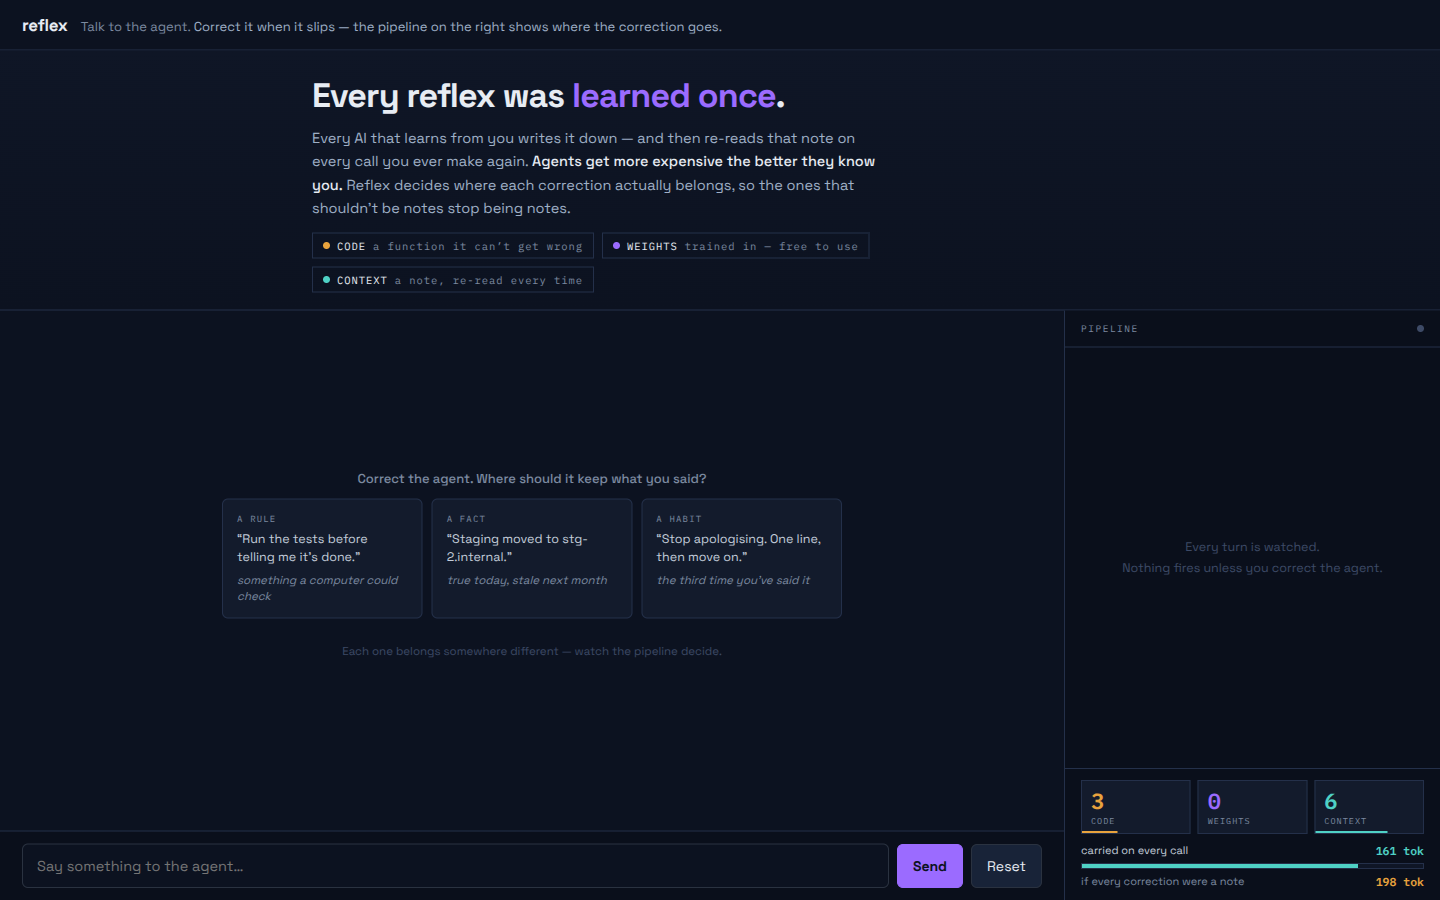
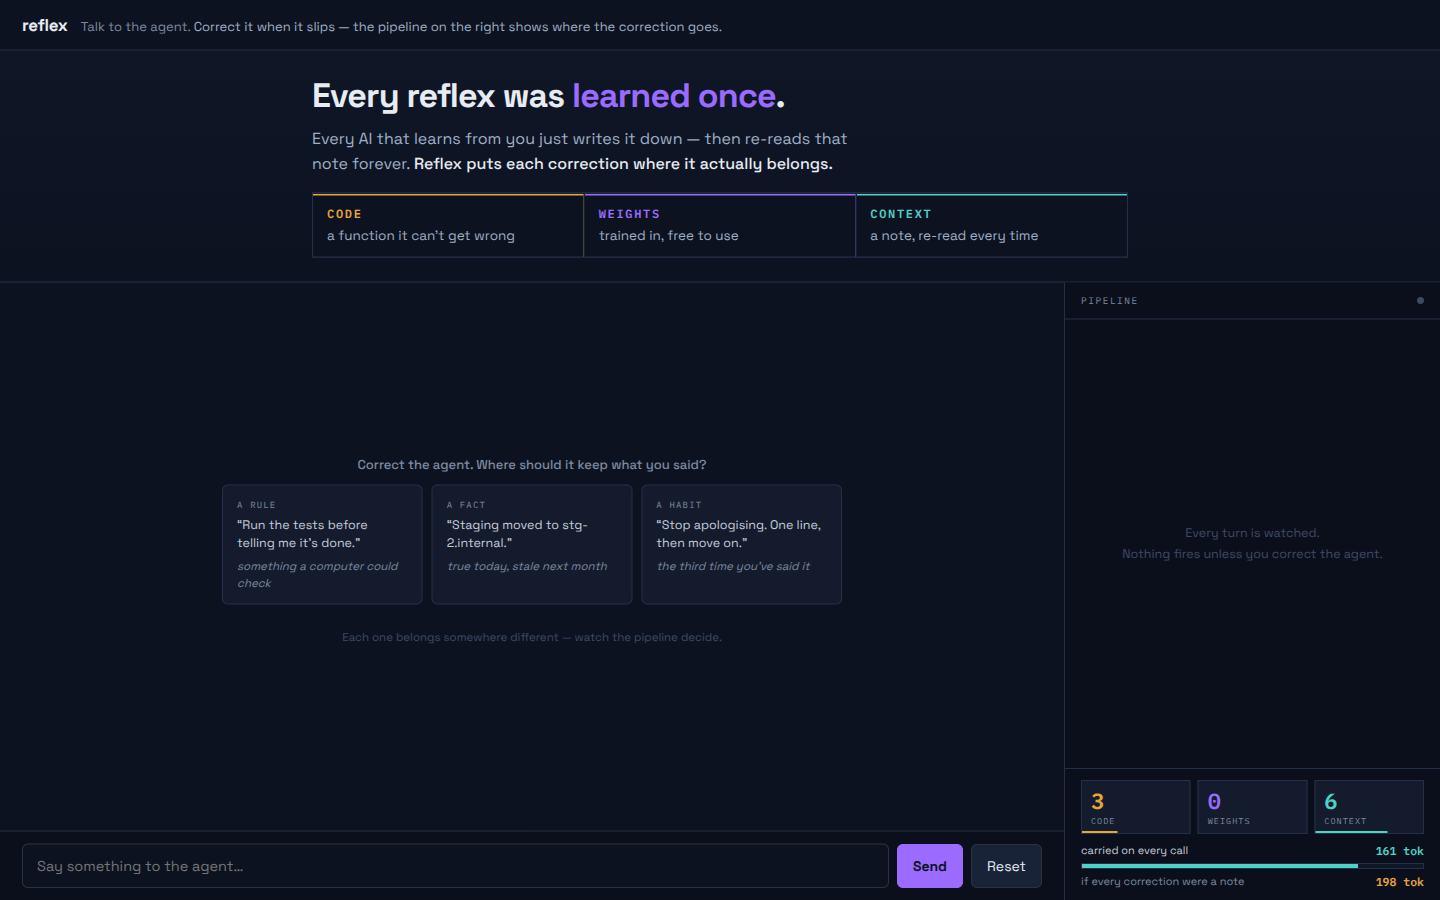
ui: cut the hero to two sentences, make the lanes readable
Three long sentences and small mono chips. Now two sentences, and the three
lanes read as one row - coloured top edges, names and descriptions at a size
that survives being scaled down in a README.

Claude-Session: https://claude.ai/code/session_01Y1snW81SVibszyM8kFBGsg

diff --git a/ui/index.html b/ui/index.html
@@ -31,14 +31,18 @@ header{padding:14px 22px;border-bottom:1px solid var(--border);
 .tag{font-size:clamp(24px,3.4vw,34px);font-weight:700;letter-spacing:-.025em;
   line-height:1.1;text-wrap:balance;margin:0}
 .tag em{font-style:normal;color:var(--weights)}
-.lede{font-size:14.5px;line-height:1.6;color:#9fb0c6;max-width:62ch;margin:0}
+.lede{font-size:16px;line-height:1.55;color:#9fb0c6;max-width:56ch;margin:0}
 .lede b{color:var(--text);font-weight:500}
-.three{display:flex;gap:8px;flex-wrap:wrap}
-.chip{font-family:var(--fm);font-size:10.5px;letter-spacing:.09em;padding:5px 10px;
-  border:1px solid var(--border);display:flex;gap:7px;align-items:center}
-.chip i{width:7px;height:7px;border-radius:50%;font-style:normal}
-.chip.c i{background:var(--code)}.chip.w i{background:var(--weights)}.chip.x i{background:var(--context)}
-.chip span{color:var(--muted)}
+.three{display:grid;grid-template-columns:repeat(3,minmax(0,1fr));gap:1px;
+  background:var(--border);border:1px solid var(--border);margin-top:3px}
+.chip{background:var(--bg);padding:12px 14px;display:flex;flex-direction:column;gap:5px}
+.chip b{font-family:var(--fm);font-size:12px;font-weight:600;letter-spacing:.14em}
+.chip span{font-size:13.5px;line-height:1.35;color:#9fb0c6}
+.chip.c b{color:var(--code)}.chip.w b{color:var(--weights)}.chip.x b{color:var(--context)}
+.chip.c{box-shadow:inset 0 2px 0 var(--code)}
+.chip.w{box-shadow:inset 0 2px 0 var(--weights)}
+.chip.x{box-shadow:inset 0 2px 0 var(--context)}
+@media(max-width:700px){.three{grid-template-columns:1fr}}
 .brand{font-size:17px;font-weight:700;letter-spacing:-.01em}
 .sub{font-size:13px;color:var(--muted)}
 .sub b{color:#9fb0c6;font-weight:400}
@@ -195,14 +199,12 @@ button:disabled{opacity:.45;cursor:default}
 
 <div id="hero"><div class="hin">
   <p class="tag">Every reflex was <em>learned once</em>.</p>
-  <p class="lede">Every AI that learns from you writes it down &mdash; and then re-reads that
-    note on every call you ever make again. <b>Agents get more expensive the better they know
-    you.</b> Reflex decides where each correction actually belongs, so the ones that shouldn&rsquo;t
-    be notes stop being notes.</p>
+  <p class="lede">Every AI that learns from you just writes it down &mdash; then re-reads that
+    note forever. <b>Reflex puts each correction where it actually belongs.</b></p>
   <div class="three">
-    <span class="chip c"><i></i>CODE<span>a function it can&rsquo;t get wrong</span></span>
-    <span class="chip w"><i></i>WEIGHTS<span>trained in &mdash; free to use</span></span>
-    <span class="chip x"><i></i>CONTEXT<span>a note, re-read every time</span></span>
+    <span class="chip c"><b>CODE</b><span>a function it can&rsquo;t get wrong</span></span>
+    <span class="chip w"><b>WEIGHTS</b><span>trained in, free to use</span></span>
+    <span class="chip x"><b>CONTEXT</b><span>a note, re-read every time</span></span>
   </div>
 </div></div>
 

diff --git a/README.md b/README.md
@@ -135,6 +135,7 @@ a file you can revert.
 |---|---|
 | **x.ai** `grok-4.6` | the agent, the correction detector, the allocator, cluster assignment, training-pair synthesis |
 | **Daytona** | ephemeral sandboxes execute agent-written code; a persistent sandbox serves CPU inference for the tuned adapter |
+| **Convex** | the durable record. Render's disk is ephemeral, so every deploy would otherwise reset the demo to its seed — Convex holds every decision permanently and rehydrates local state on boot |
 | **Render** | hosts the live demo |
 
 Model-generated code never runs on our machines. That isolation is the point of
@@ -160,6 +161,7 @@ python -m allocator.batch labels.csv
 pip install -r requirements.txt
 export XAI_API_KEY=...        # required
 export DAYTONA_API_KEY=...    # required for the code lane
+export CONVEX_URL=...         # optional — durable history across restarts
 
 uvicorn server:app --reload   # http://127.0.0.1:8000
 python harness.py             # contract check across all lanes
@@ -181,6 +183,7 @@ allocator/           the routing decision — prompt.txt IS the policy
 lanes/context/       structured bullets, retrieved by cue
 lanes/code/          grok writes it, Daytona runs it, we register it
 lanes/weights/       synthesis, QLoRA training, inference, promotion gate
+convex/              schema + functions — the record that survives a deploy
 ui/                  the demo
 harness.py           one command, five contract probes
 ```
